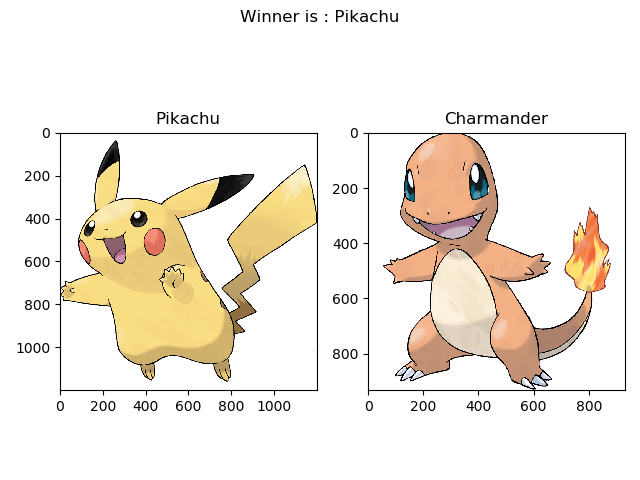
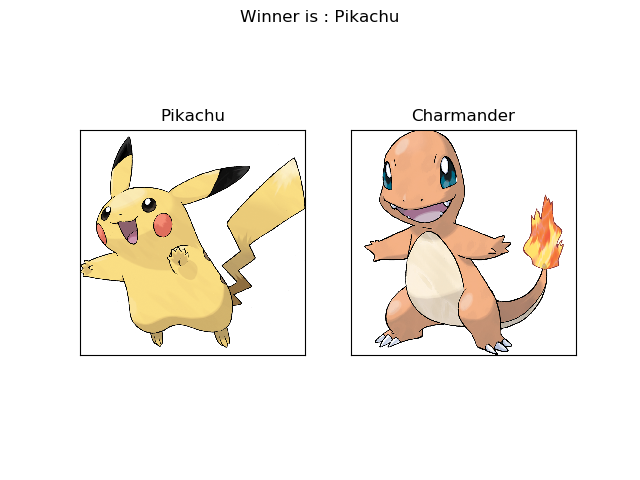
Adjusting image

diff --git a/get_image.py b/get_image.py
@@ -24,11 +24,13 @@ def get_image(name):
 def merge(img1, name1, img2, name2, winner):
     fig, ax = plt.subplots(1, 2)
     ax[0].imshow(img1)
-    ax[0].title.set_text(name1)
+    ax[0].set_title(name1)
+    ax[0].set_xticks([])
+    ax[0].set_yticks([])
+    ax[1].set_xticks([])
+    ax[1].set_yticks([])
     ax[1].imshow(img2)
-    ax[1].title.set_text(name2)
-    # plt.imshow(img1)
-    fig.tight_layout()
+    ax[1].set_title(name2)
     plt.suptitle("Winner is : "+str(winner))
     plt.savefig("Battle.png")
     plt.show()
